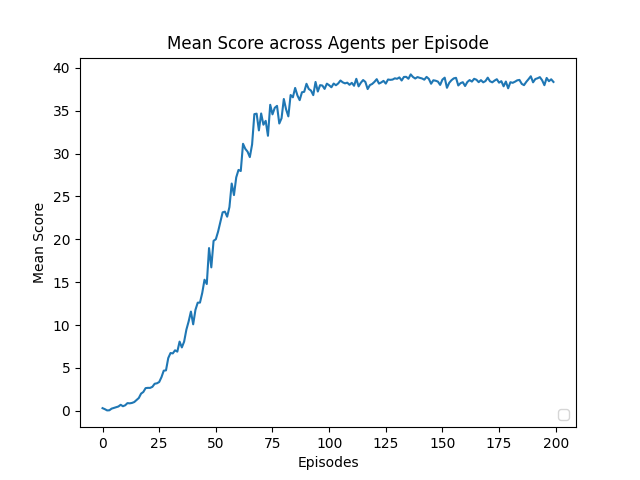
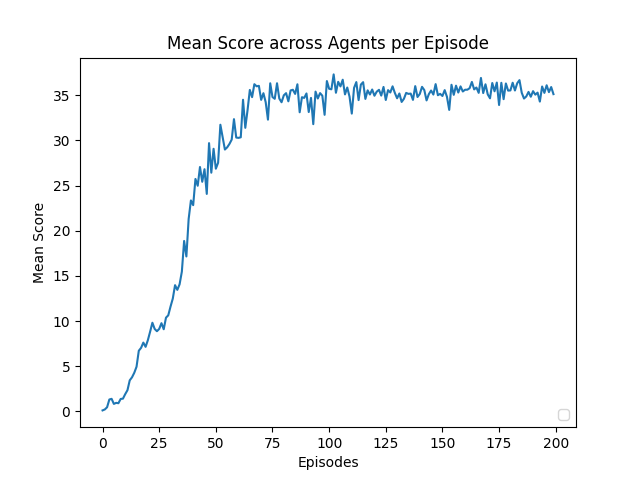
docs: Updated report
1) Included training log and new graph
2) minor change to config.py, setting standard min_eps hyperparam to 1e-4

diff --git a/config.py b/config.py
@@ -12,7 +12,7 @@ class Configuration():
         self.soft_update_tau = 1e-3
         self.eps_start = 0.99
         self.eps_decay_rate = 0.999
-        self.epsilon_min = 1e-3
+        self.epsilon_min = 1e-4
         self.PER_batch_size = 64
         self.PER_alpha = 0.6
         self.n_step = 3

diff --git a/Report.md b/Report.md
@@ -146,10 +146,10 @@ The following parameters were used for training:
 |**Noise**
 |Starting Noise factor | `--eps_start` |0.99
 |Minimum Noise factor |  |0.001
-|Noise factor decay rate |`--eps_decay` |0.99
+|Noise factor decay rate |`--eps_decay` |0.9995
 |**Prioritized Experience Replay**
 |buffer size ||1'000'000
-|n steps |`--n_steps`|7
+|n steps |`--n_steps`|5
 |reward discount rate |`--gamma`|0.99
 |α factor (prioritization) for Prioritized Replay Buffer|`--PER_alpha`|0.6
 |starting β factor (randomness) for Prioritized Replay Buffer|`--PER_beta_min`|0.4
@@ -169,12 +169,37 @@ The following parameters were used for training:
 ## Results - Plot of Rewards
 With the above parameters, the agent was able to solve the game (average reward over 100 episodes >30) in 30 episodes.
 
-Environment solved in 30 episodes!      Average Score: 30.06
 
 Below is the reward per episode (mean reward across 20 agents).
 
 ![training_log](./images/Reacher_training_plot.png)
 
+The environment was solved in 24 episodes (ie from episode 24 onwards, the average score over 100 episodes was 30.12), or **alternatively** it was solved in 124 episodes (by episode 124 the average over the previous 100 episodes was 30.12).
+Below the training log:
+```text
+Episodes: 10    Average Score: 0.90              Score: 1.41
+Episodes: 20    Average Score: 2.91              Score: 7.15
+Episodes: 30    Average Score: 5.06              Score: 10.64
+Episodes: 40    Average Score: 7.84              Score: 23.36
+Episodes: 50    Average Score: 11.52             Score: 29.08
+Episodes: 60    Average Score: 14.55             Score: 30.32   
+Episodes: 70    Average Score: 17.31             Score: 36.05   
+Episodes: 80    Average Score: 19.48             Score: 34.23   
+Episodes: 90    Average Score: 21.21             Score: 34.71   
+Episodes: 100   Average Score: 22.53             Score: 36.58   
+Episodes: 110   Average Score: 26.03             Score: 34.86   
+Episodes: 120   Average Score: 29.07             Score: 35.64   
+Episode 124      Frame: 1000/1000        Score: 34.94
+Environment solved in 24 episodes!      Average Score: 30.12
+Episodes: 130   Average Score: 31.67             Score: 35.27 
+Episodes: 140   Average Score: 33.55             Score: 34.81   
+Episodes: 150   Average Score: 34.46             Score: 35.16   
+Episodes: 160   Average Score: 35.02             Score: 35.42   
+Episodes: 170   Average Score: 35.22             Score: 36.22   
+Episodes: 180   Average Score: 35.29             Score: 35.52   
+Episodes: 190   Average Score: 35.35             Score: 34.84   
+Episodes: 200   Average Score: 35.44             Score: 35.13  
+```
 ## Future Work
 This agent was trained by trying to correctly forecast the future mean reward given a state and action. A very interesting development in reinforcement learning is the modification to distributional reinforcement learning, in which we learn the rewards distribution and not just the mean, allowing to capture more nuances of the system. 
 An improvement to be done is to implement a Sample-Based Distributional Policy Gradient [SDPG](https://arxiv.org/abs/2001.02652) (Sing et al, 2020) 
